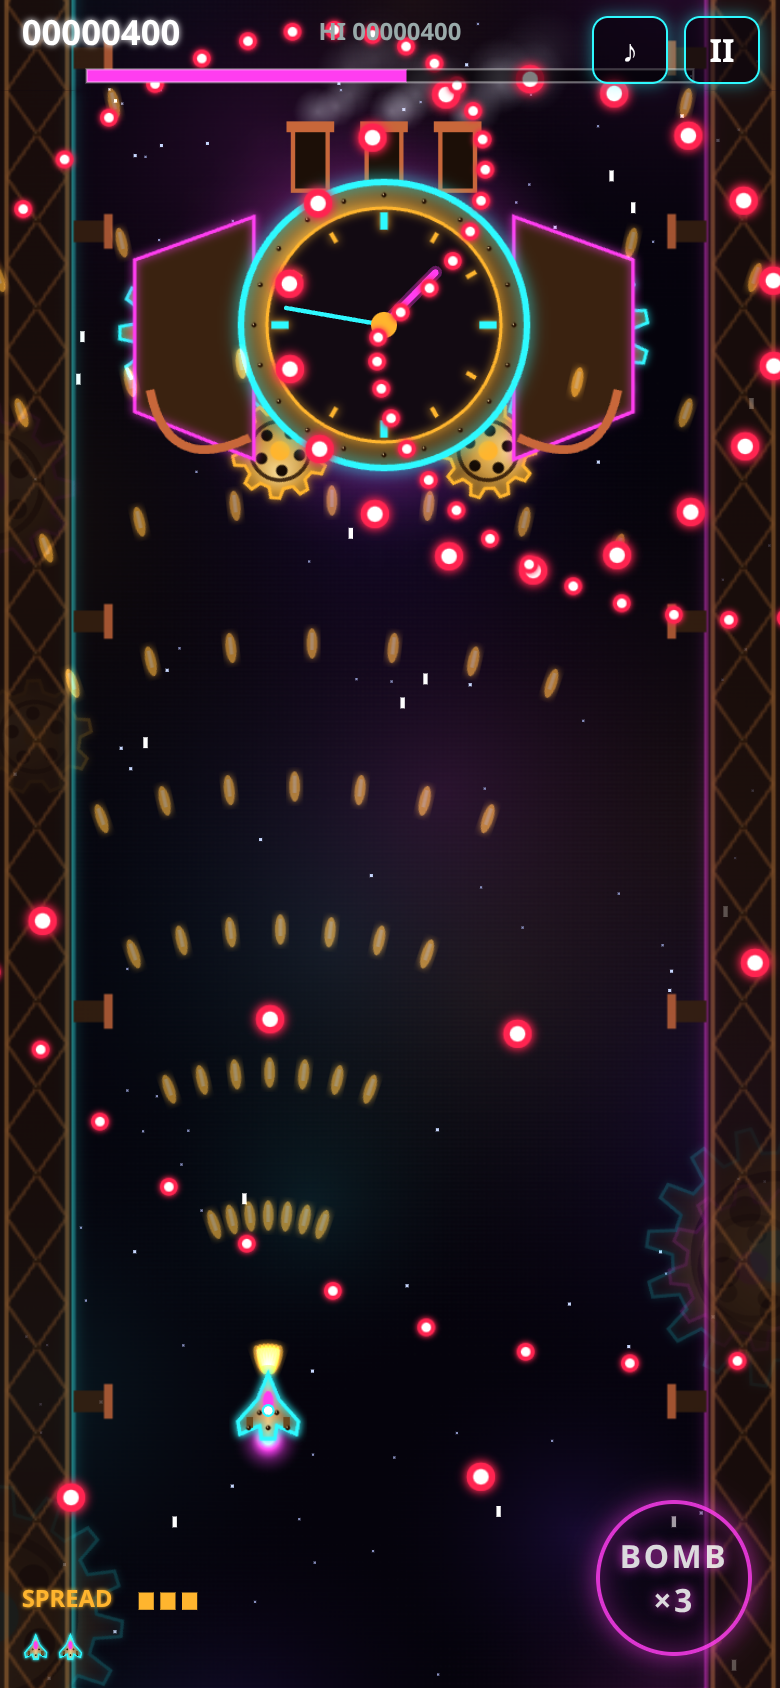
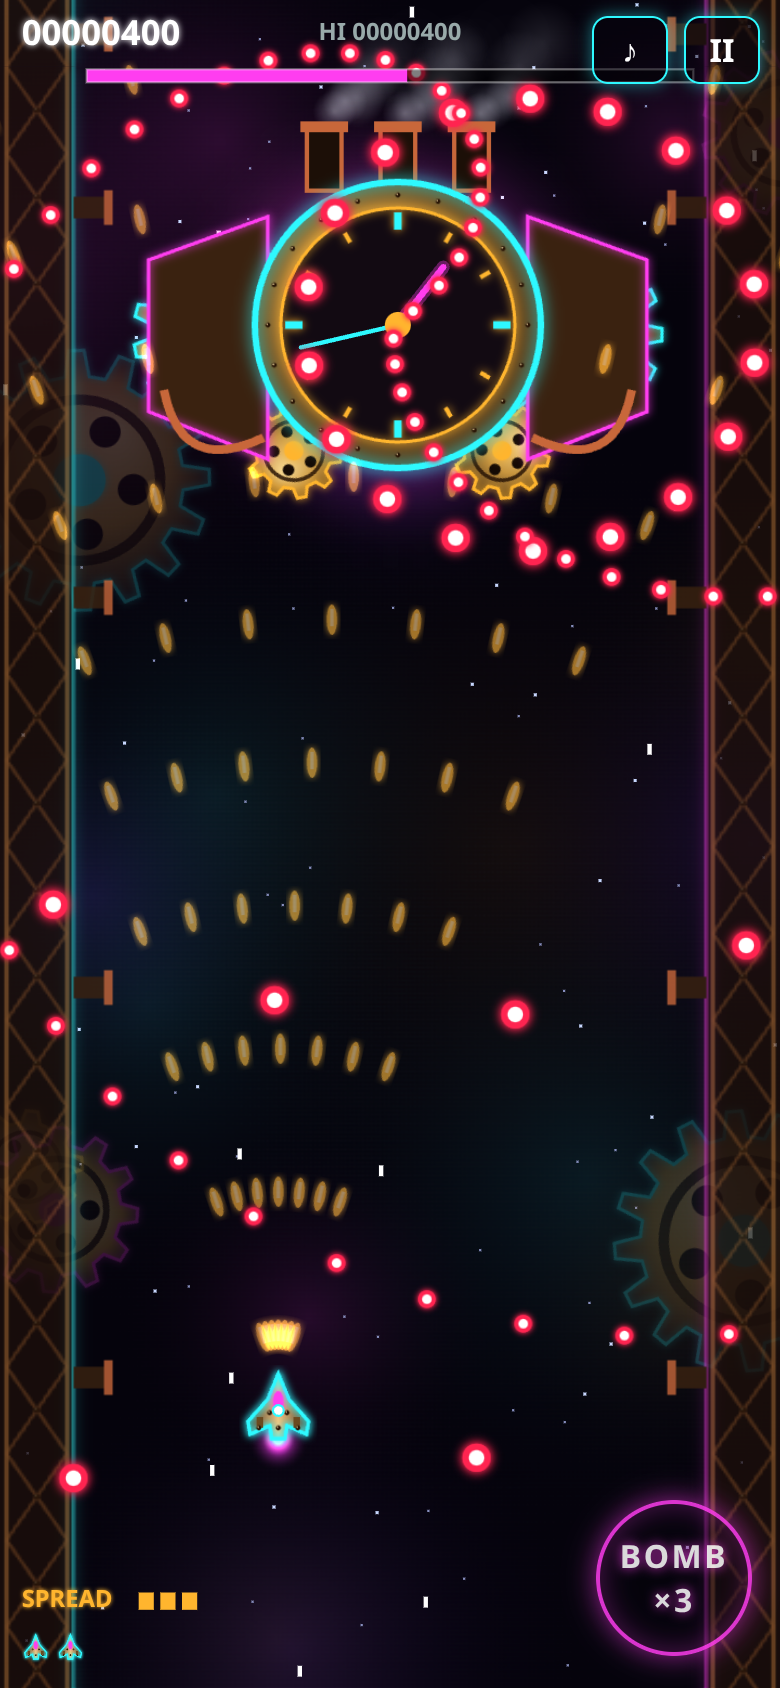
Hide ship after game over; flow test; screenshots

diff --git a/tools/flow.js b/tools/flow.js
@@ -1,0 +1,11 @@
+const puppeteer=require('/workspace/cr-test/node_modules/puppeteer-core');const U=process.argv[2]||'http://localhost:8765/';
+(async()=>{const b=await puppeteer.launch({executablePath:'/usr/bin/google-chrome',headless:'new',args:['--no-sandbox','--use-angle=swiftshader','--enable-unsafe-swiftshader','--ignore-gpu-blocklist']});
+const errs=[];const p=await b.newPage();p.on('pageerror',e=>errs.push(e.message));p.on('console',m=>{if(m.type()==='error')errs.push(m.text())});
+await p.emulate({viewport:{width:390,height:844,deviceScaleFactor:2,isMobile:true,hasTouch:true},userAgent:'Mozilla/5.0 (Linux; Android 13) Mobile'});
+const r=await p.goto(U,{waitUntil:'load'});console.log('status',r.status());await new Promise(r=>setTimeout(r,1000));
+await p.tap('#bStart');await new Promise(r=>setTimeout(r,300));await p.tap('#bPause');console.log('after pause',await p.evaluate(()=>NG.G.state));
+await p.tap('#bResume');console.log('after resume',await p.evaluate(()=>NG.G.state));
+await p.tap('#bBomb');console.log('bombs',await p.evaluate(()=>NG.G.bombs));
+for(let k=0;k<30;k++){const s=await p.evaluate(()=>{for(let i=0;i<600;i++){NG.P.x=180;NG.P.y=300;NG.step(1);if(NG.G.state!=='play')break;}return NG.G.state;});if(s!=='play')break;}
+console.log('end',await p.evaluate(()=>NG.G.state+' lives '+NG.G.lives+' st '+(NG.G.st/60).toFixed(1)));await p.screenshot({path:'shots/gameover.png'});
+console.log('ERRORS',errs);await b.close();})();

diff --git a/build/game.js b/build/game.js
@@ -315,7 +315,7 @@ function draw(){const play=G.state!=='title';const sx=G.shake?rnd(-G.shake,G.sha
  ctx.globalCompositeOperation='source-over';
  for(const u of PU.a){if(!u.act)continue;const w=WEAP[u.w];ctx.strokeStyle=w.c;ctx.lineWidth=1.5;ctx.beginPath();ctx.arc(u.x,u.y,12,0,TAU);ctx.stroke();ctx.fillStyle='#05030c';ctx.font='bold 12px monospace';ctx.textAlign='center';ctx.textBaseline='middle';ctx.fillText(w.l,u.x,u.y+1);}
  // player
- if(P.dead<=0&&!(P.inv>0&&(G.t>>2)%2)){ctx.globalCompositeOperation='lighter';ds(S.dot.mg,P.x,P.y+15,0,.8+Math.random()*.4);ds(S.dot.am,P.x,P.y+13,0,.5);ctx.globalCompositeOperation='source-over';
+ if(P.dead<=0&&G.lives>0&&!(P.inv>0&&(G.t>>2)%2)){ctx.globalCompositeOperation='lighter';ds(S.dot.mg,P.x,P.y+15,0,.8+Math.random()*.4);ds(S.dot.am,P.x,P.y+13,0,.5);ctx.globalCompositeOperation='source-over';
   ctx.save();ctx.translate(P.x,P.y);ctx.scale(1-Math.min(.35,Math.abs(P.bank)*.05),1);ctx.drawImage(S.player,-S.player.w/2,-S.player.h/2,S.player.w,S.player.h);ctx.restore();
   ctx.fillStyle='#fff';ctx.beginPath();ctx.arc(P.x,P.y+1,2.5,0,TAU);ctx.fill();ctx.strokeStyle=COL.cy;ctx.lineWidth=1;ctx.stroke();}
  // enemy bullets on top, solid for contrast

diff --git a/src/main.js b/src/main.js
@@ -210,7 +210,7 @@ function draw(){const play=G.state!=='title';const sx=G.shake?rnd(-G.shake,G.sha
  ctx.globalCompositeOperation='source-over';
  for(const u of PU.a){if(!u.act)continue;const w=WEAP[u.w];ctx.strokeStyle=w.c;ctx.lineWidth=1.5;ctx.beginPath();ctx.arc(u.x,u.y,12,0,TAU);ctx.stroke();ctx.fillStyle='#05030c';ctx.font='bold 12px monospace';ctx.textAlign='center';ctx.textBaseline='middle';ctx.fillText(w.l,u.x,u.y+1);}
  // player
- if(P.dead<=0&&!(P.inv>0&&(G.t>>2)%2)){ctx.globalCompositeOperation='lighter';ds(S.dot.mg,P.x,P.y+15,0,.8+Math.random()*.4);ds(S.dot.am,P.x,P.y+13,0,.5);ctx.globalCompositeOperation='source-over';
+ if(P.dead<=0&&G.lives>0&&!(P.inv>0&&(G.t>>2)%2)){ctx.globalCompositeOperation='lighter';ds(S.dot.mg,P.x,P.y+15,0,.8+Math.random()*.4);ds(S.dot.am,P.x,P.y+13,0,.5);ctx.globalCompositeOperation='source-over';
   ctx.save();ctx.translate(P.x,P.y);ctx.scale(1-Math.min(.35,Math.abs(P.bank)*.05),1);ctx.drawImage(S.player,-S.player.w/2,-S.player.h/2,S.player.w,S.player.h);ctx.restore();
   ctx.fillStyle='#fff';ctx.beginPath();ctx.arc(P.x,P.y+1,2.5,0,TAU);ctx.fill();ctx.strokeStyle=COL.cy;ctx.lineWidth=1;ctx.stroke();}
  // enemy bullets on top, solid for contrast
